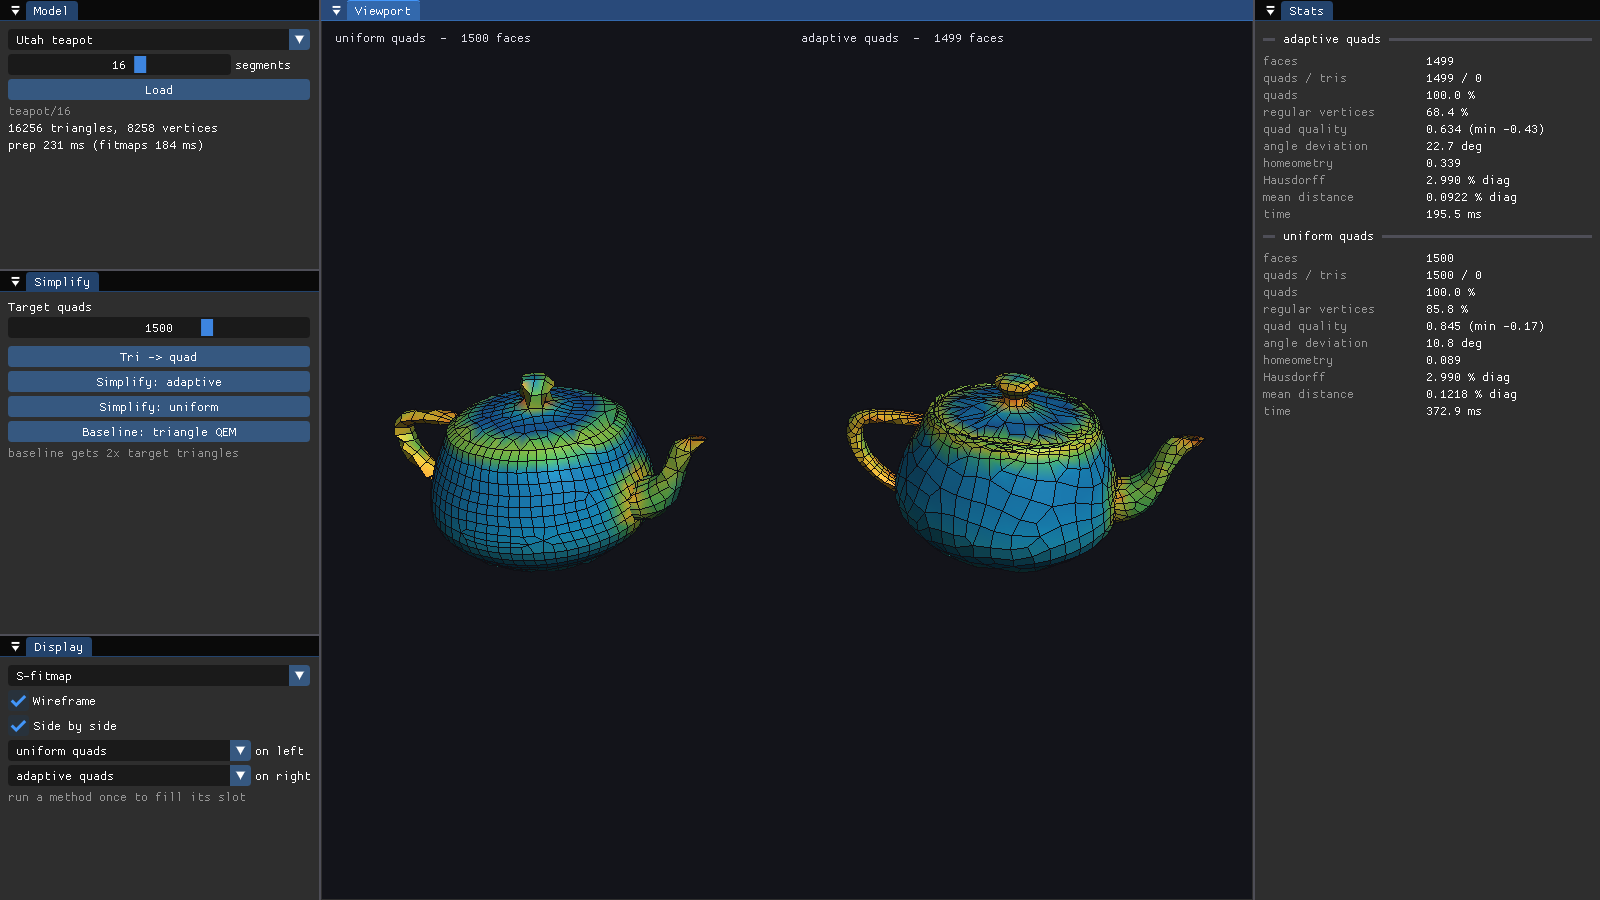
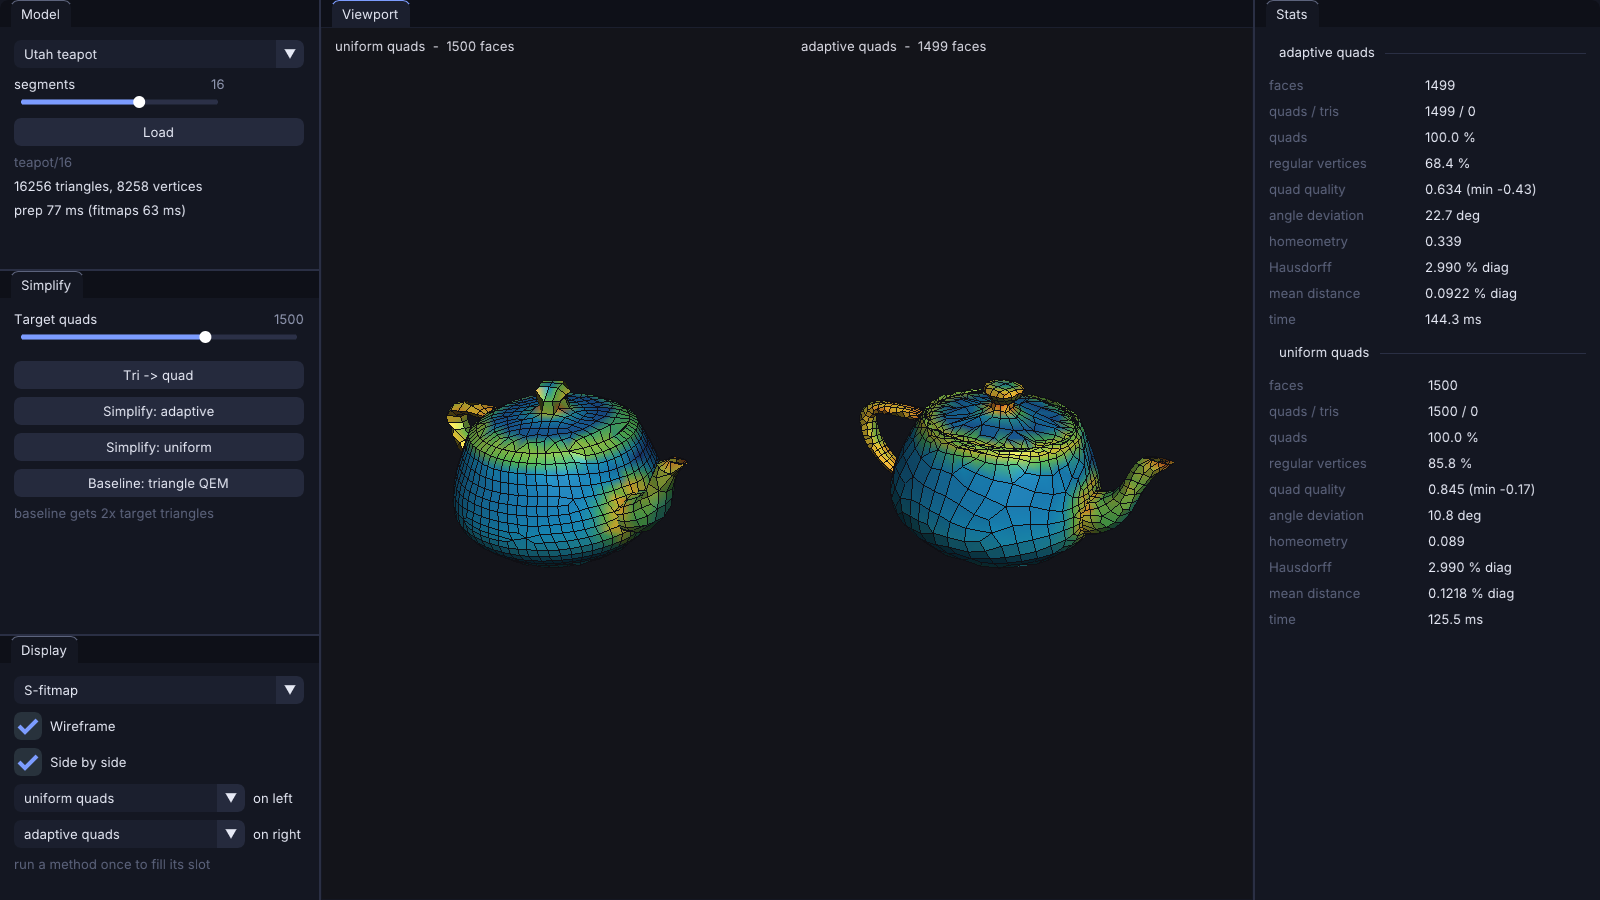
Integer and logarithmic sliders; regenerate the app screenshots
- ui::sliderInt and a logarithmic option on ui::slider, so no slider
  hides its value under the knob (particles, target quads, spp, dt)
- the README and docs screenshots of the four apps are re-rendered with
  the new theme, with the same scenes and numbers as before

diff --git a/apps/sph/main.cpp b/apps/sph/main.cpp
@@ -500,10 +500,10 @@ private:
         if (ImGui::Button("Step", {70, 0})) { paused_ = true; stepRequested_ = true; }
         ImGui::SameLine();
         if (ImGui::Button("Reset", {70, 0})) needReset = true;
-        ImGui::SliderInt("steps / frame", &stepsPerFrame_, 1, 60);
+        ui::sliderInt("steps / frame", &stepsPerFrame_, 1, 60);
 
         ImGui::SeparatorText("Resolution (resets)");
-        ImGui::SliderInt("particles", &params_.targetCount, 1000, 200000, "%d", ImGuiSliderFlags_Logarithmic);
+        ui::sliderInt("particles", &params_.targetCount, 1000, 200000, "%d", true);
         if (ImGui::IsItemDeactivatedAfterEdit()) needReset = true;
         ui::slider("h / spacing", &params_.hRatio, 1.5f, 3.0f, "%.2f");
         if (ImGui::IsItemDeactivatedAfterEdit()) needReset = true;
@@ -513,14 +513,14 @@ private:
         bool live = false;
         live |= ui::slider("rest density", &params_.restDensity, 100.0f, 3000.0f, "%.0f kg/m3");
         if (ImGui::IsItemDeactivatedAfterEdit()) needReset = true;   // mass is derived from it
-        live |= ImGui::SliderFloat("viscosity mu", &params_.viscosity, 0.0f, 20.0f, "%.2f Pa s", ImGuiSliderFlags_Logarithmic);
+        live |= ui::slider("viscosity mu", &params_.viscosity, 0.0f, 20.0f, "%.2f Pa s");
         live |= ui::slider("XSPH eps", &params_.xsph, 0.0f, 0.5f, "%.3f");
         live |= ui::slider("gravity y", &params_.gravity.y, -20.0f, 5.0f, "%.2f m/s2");
         live |= ui::slider("restitution", &params_.restitution, 0.0f, 1.0f, "%.2f");
 
         ImGui::SeparatorText("Time step");
         float dtMs = params_.dt * 1000.0f;
-        if (ImGui::SliderFloat("dt", &dtMs, 0.05f, 5.0f, "%.3f ms", ImGuiSliderFlags_Logarithmic)) { params_.dt = dtMs * 0.001f; live = true; autoDt_ = false; }
+        if (ui::slider("dt", &dtMs, 0.05f, 5.0f, "%.3f ms", true)) { params_.dt = dtMs * 0.001f; live = true; autoDt_ = false; }
         ImGui::Checkbox("CFL dt on reset", &autoDt_);
         ImGui::SameLine();
         if (ImGui::SmallButton("CFL now")) { params_.dt = cpu_.suggestedDt(); live = true; }
@@ -529,8 +529,8 @@ private:
             ImGui::TextDisabled("Tait stiffness B = %.3g Pa", params_.restDensity * params_.soundSpeed * params_.soundSpeed / 7);
         } else {
             float pct = params_.pciMaxError * 100.0f;
-            if (ImGui::SliderFloat("max density err", &pct, 0.05f, 5.0f, "%.2f %%", ImGuiSliderFlags_Logarithmic)) { params_.pciMaxError = pct * 0.01f; live = true; }
-            live |= ImGui::SliderInt("max iterations", &params_.pciMaxIter, 3, 100);
+            if (ui::slider("max density err", &pct, 0.05f, 5.0f, "%.2f %%", true)) { params_.pciMaxError = pct * 0.01f; live = true; }
+            live |= ui::sliderInt("max iterations", &params_.pciMaxIter, 3, 100);
         }
         if (live) applyLiveParams();
         if (needReset) reset();

diff --git a/engine/src/ui/Theme.cpp b/engine/src/ui/Theme.cpp
@@ -162,7 +162,7 @@ bool toggle(const char* label, bool* value) {
     return pressed;
 }
 
-bool slider(const char* label, float* value, float lo, float hi, const char* fmt) {
+bool slider(const char* label, float* value, float lo, float hi, const char* fmt, bool logarithmic) {
     ImGuiWindow* win = ImGui::GetCurrentWindow();
     if (win->SkipItems) return false;
     const Palette& p = g_pal;
@@ -181,10 +181,12 @@ bool slider(const char* label, float* value, float lo, float hi, const char* fmt
     const float trackL = pos.x + 7.0f, trackR = pos.x + w - 7.0f, trackY = pos.y + textH + 10.0f;
     if (held && trackR > trackL) {
         float t = std::clamp((ImGui::GetIO().MousePos.x - trackL) / (trackR - trackL), 0.0f, 1.0f);
-        float v = lo + t * (hi - lo);
+        const bool lg = logarithmic && lo > 0.0f && hi > lo;
+        float v = lg ? lo * std::pow(hi / lo, t) : lo + t * (hi - lo);
         if (std::fabs(v - *value) > 1e-7f) { *value = v; changed = true; }
     }
-    const float t = hi > lo ? std::clamp((*value - lo) / (hi - lo), 0.0f, 1.0f) : 0.0f;
+    const bool lgDraw = logarithmic && lo > 0.0f && hi > lo && *value > 0.0f;
+    const float t = hi > lo ? std::clamp(lgDraw ? std::log(*value / lo) / std::log(hi / lo) : (*value - lo) / (hi - lo), 0.0f, 1.0f) : 0.0f;
     const float hov = animate(id, (hovered || held) ? 1.0f : 0.0f);
     ImDrawList* dl = win->DrawList;
     ImGui::RenderText(pos, label, labelEnd);
@@ -198,6 +200,17 @@ bool slider(const char* label, float* value, float lo, float hi, const char* fmt
     dl->AddCircleFilled({x, trackY}, 6.5f + 1.5f * hov, ImGui::GetColorU32(withAlpha(p.accent, 0.20f * hov)), 24);
     dl->AddCircleFilled({x, trackY}, 6.0f, IM_COL32(255, 255, 255, 255), 24);
     return changed;
+}
+
+bool sliderInt(const char* label, int* value, int lo, int hi, const char* fmt, bool logarithmic) {
+    // reuse the float slider: show the rounded value with the int format turned into a float one
+    std::string f(fmt ? fmt : "%d");
+    for (size_t i = f.find("%d"); i != std::string::npos; i = f.find("%d", i + 4)) f.replace(i, 2, "%.0f");
+    float v = (float)*value;
+    const bool changed = slider(label, &v, (float)lo, (float)hi, f.c_str(), logarithmic);
+    const int iv = (int)std::lround(v);
+    if (changed && iv != *value) { *value = iv; return true; }
+    return false;
 }
 
 bool accentButton(const char* label, ImVec2 size) {

diff --git a/apps/pathtracer/main.cpp b/apps/pathtracer/main.cpp
@@ -481,13 +481,13 @@ private:
         if (ImGui::Button("Reset")) reset();
         ImGui::SameLine();
         if (ImGui::Button("Save PNG")) saveRequested_ = true;
-        ImGui::SliderInt("Max bounces", &s.maxBounces, 1, 32);
-        ImGui::SliderInt("Roulette from", &s.rrStart, 1, 16);
-        ImGui::SliderInt("Samples/frame", &samplesPerFrame_, 1, 32);
-        ImGui::SliderInt("Stop at spp", &maxSpp_, 0, 16384);
+        ui::sliderInt("Max bounces", &s.maxBounces, 1, 32);
+        ui::sliderInt("Roulette from", &s.rrStart, 1, 16);
+        ui::sliderInt("Samples/frame", &samplesPerFrame_, 1, 32);
+        ui::sliderInt("Stop at spp", &maxSpp_, 0, 16384);
         const char* modes[] = {"BSDF sampling", "Light sampling (NEE)", "MIS (power)"};
         ImGui::Combo("Strategy", &s.misMode, modes, 3);
-        ImGui::SliderFloat("Clamp", &s.clamp, 0.0f, 50.0f, s.clamp > 0 ? "%.1f" : "off");
+        ui::slider("Clamp", &s.clamp, 0.0f, 50.0f, s.clamp > 0 ? "%.1f" : "off");
         ImGui::SeparatorText("Display");
         ui::slider("Exposure (EV)", &exposure_, -4.0f, 4.0f);
         const char* tm[] = {"ACES", "Filmic (Hable)", "Clamp"};
@@ -534,7 +534,7 @@ private:
         ImGui::SetNextItemWidth(-1);
         if (ImGui::InputText("##obj", &objPath_, ImGuiInputTextFlags_EnterReturnsTrue)) loadModel(objPath_);
         ImGui::SetNextItemWidth(-90);
-        ImGui::SliderInt("##segs", &teapotSegments_, 2, 64, "teapot %d segs");
+        ui::sliderInt("##segs", &teapotSegments_, 2, 64, "teapot %d segs");
         ImGui::SameLine();
         if (ImGui::Button("Rebuild")) setMesh(makeTeapot(teapotSegments_), "Utah teapot");
         ImGui::SeparatorText("Material");

diff --git a/apps/quadmesh/main.cpp b/apps/quadmesh/main.cpp
@@ -559,7 +559,7 @@ private:
         const char* names[] = {"Utah teapot", "Bumpy sphere", "Rounded box", "OBJ file"};
         ImGui::SetNextItemWidth(-1);
         ImGui::Combo("##model", &modelIndex_, names, 4);
-        if (modelIndex_ == 0) { ImGui::SetNextItemWidth(-80); ImGui::SliderInt("segments", &segments_, 4, 24); }
+        if (modelIndex_ == 0) { ImGui::SetNextItemWidth(-80); ui::sliderInt("segments", &segments_, 4, 24); }
         if (modelIndex_ == 3) { ImGui::SetNextItemWidth(-1); ImGui::InputTextWithHint("##obj", "path/to/model.obj", &objPath_); }
         static const char* keys[] = {"teapot", "bumpy", "box"};
         if (ImGui::Button("Load", {-1, 0})) load(modelIndex_ < 3 ? keys[modelIndex_] : objPath_);
@@ -574,9 +574,8 @@ private:
     void simplifyPanel() {
         ImGui::Begin("Simplify");
         int maxQ = model_ ? std::max(60, (int)model_->tri.liveFaces() / 2) : 1000;
-        ImGui::TextUnformatted("Target quads");
         ImGui::SetNextItemWidth(-1);
-        ImGui::SliderInt("##target", &target_, 50, maxQ, "%d", ImGuiSliderFlags_Logarithmic);
+        ui::sliderInt("Target quads", &target_, 50, maxQ, "%d", true);
         ImGui::Spacing();
         if (ImGui::Button("Tri -> quad", {-1, 0})) apply(Method::Quads);
         if (ImGui::Button("Simplify: adaptive", {-1, 0})) apply(Method::Adaptive);

diff --git a/engine/src/ui/Theme.h b/engine/src/ui/Theme.h
@@ -33,7 +33,9 @@ void install(const std::string& assetsDir, float scale = 1.0f);
 // iOS-style animated switch with the label on its right. Returns true when toggled.
 bool toggle(const char* label, bool* value);
 // Label on the left, value on the right, a thin track with a round knob underneath.
-bool slider(const char* label, float* value, float lo, float hi, const char* fmt = "%.2f");
+bool slider(const char* label, float* value, float lo, float hi, const char* fmt = "%.2f", bool logarithmic = false);
+// Integer version of slider(): the value snaps to whole numbers; `fmt` is a printf format for an int.
+bool sliderInt(const char* label, int* value, int lo, int hi, const char* fmt = "%d", bool logarithmic = false);
 // A filled accent button (the primary action of a panel).
 bool accentButton(const char* label, ImVec2 size = {0, 0});
 // Small upper-case dim title with a hairline, to group controls.

diff --git a/apps/gluelab/main.cpp b/apps/gluelab/main.cpp
@@ -279,7 +279,7 @@ private:
                 case UniformParam::Float: ui::slider(p.name.c_str(), &p.value[0], p.lo, p.hi); break;
                 case UniformParam::Int: {
                     int v = (int)p.value[0];
-                    if (ImGui::SliderInt(p.name.c_str(), &v, (int)p.lo, (int)p.hi)) p.value[0] = (float)v;
+                    if (ui::sliderInt(p.name.c_str(), &v, (int)p.lo, (int)p.hi)) p.value[0] = (float)v;
                     break;
                 }
                 case UniformParam::Bool: {
